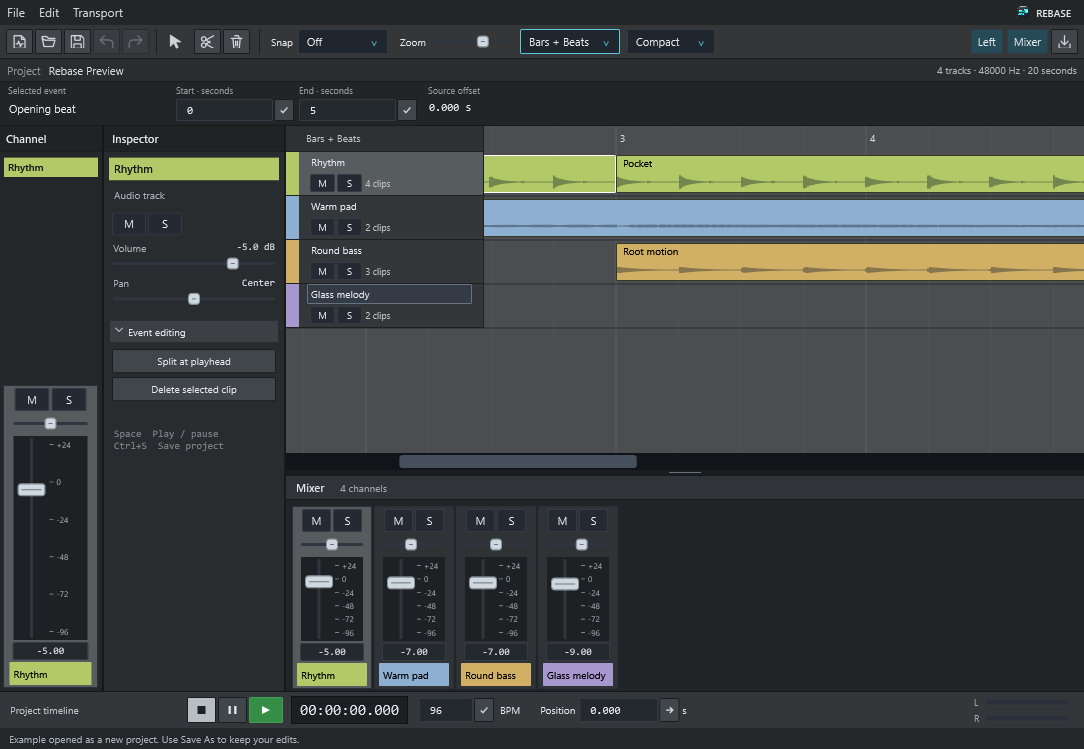
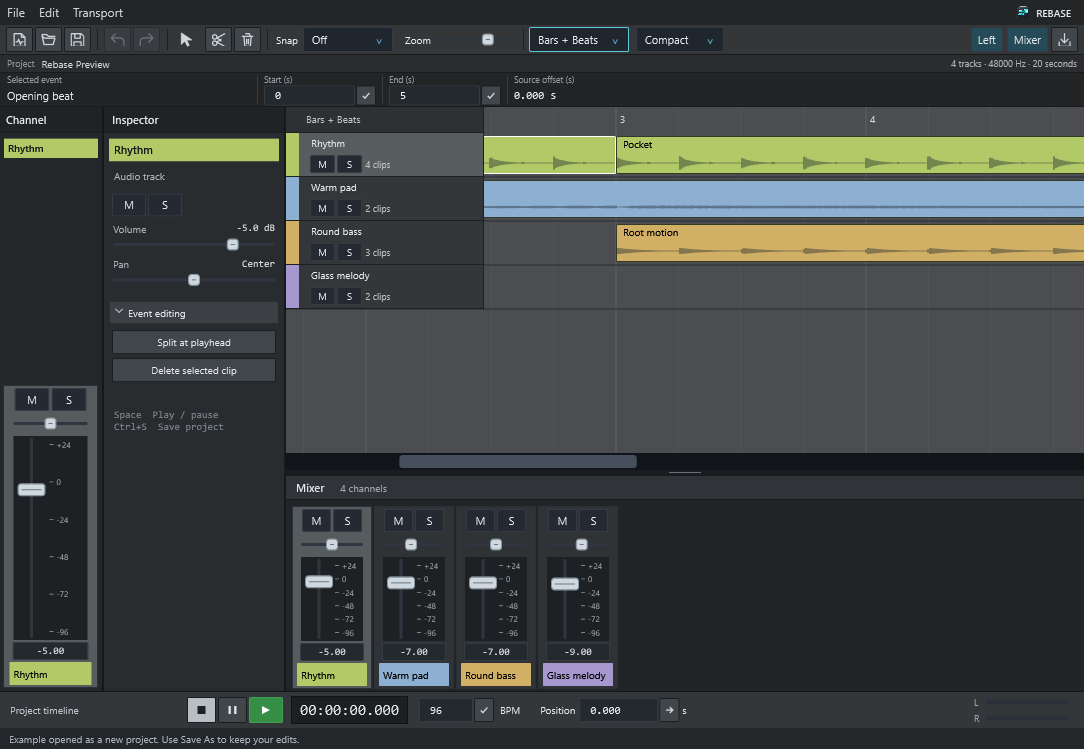
Publish compact project information preview and downloads [skip ci]

diff --git a/docs/development/windows-parity.md b/docs/development/windows-parity.md
@@ -1,6 +1,6 @@
 # Windows parity
 
-The behavior comparison baseline is the macOS **0.21.1** application, including its bundled example beat. The visual target is the [Cubase Pro 15.0.30 Windows interface](windows-ui-fidelity.md). The [Windows development preview](https://github.com/thatsmethen/rebase/releases/tag/v0.21.1-windows-preview.4) includes the native WPF package, compact/normal track rows, adjustable panels, shared waveforms, musical ruler, reviewed partial CPR import and bounded source-event journey. The captured selector/header defects have been corrected; exact reference fidelity remains open. The public repository, research export, and existing Mac downloads remain available.
+The behavior comparison baseline is the macOS **0.21.1** application, including its bundled example beat. The visual target is the [Cubase Pro 15.0.30 Windows interface](windows-ui-fidelity.md). The [Windows development preview](https://github.com/thatsmethen/rebase/releases/tag/v0.21.1-windows-preview.5) includes the native WPF package, compact/normal track rows, adjustable panels, shared waveforms, musical ruler, reviewed partial CPR import and bounded source-event journey. The captured selector/header defects have been corrected; exact reference fidelity remains open. The public repository, research export, and existing Mac downloads remain available.
 
 ## Shared implementation
 
@@ -21,7 +21,7 @@ The x64 lane explicitly qualifies the floating-point environment before enabling
 | Native DSP | Same accepted domains, exact independent controls, explicit environment rejection | Windows x64 Debug/Release passed 5,442 cases and 18,380 checks each; see the [retained run](../../research/publication/windows-portability/run-39915872920/observation.json) |
 | Project files | Load/save/reopen across OS; source checks, containment, junction/drive/UNC/ADS handling and atomic replacement | Shared store and bounded snapshot copying passed Windows Debug/Release tests; the actual host saved and reopened an edited example. File-dialog interaction remains unverified. |
 | Editing | Move/trim/split/delete, snap, undo/redo, tempo/signature and preserved-clock conversion | Shared commands passed Windows Debug/Release checks. The actual window exercised selection, move, undo, redo, Save As and reopen. Pointer/keyboard journeys and remaining commands require broader UI coverage. |
-| Timeline/mixer | Four-track example, waveforms, automation, gain/pan, keyboard access and dirty-project prompts | Native checks cover the editable inspector, mixer controls, shared bars/beats ruler, 11 real waveforms, four visible rows and fixed headers during scrolling. Seven actual client-area captures were visually reviewed, including the CPR review and its minimum-size error state. Physical gestures, automation editing and full reference layout/control fidelity remain open. |
+| Timeline/mixer | Four-track example, waveforms, automation, gain/pan, keyboard access and dirty-project prompts | Native checks cover the editable inspector, mixer controls, shared bars/beats ruler, 11 real waveforms, four visible rows and fixed headers during scrolling. Nine actual client-area captures were visually reviewed, including the CPR review and its minimum-size error state. Physical gestures, automation editing and full reference layout/control fidelity remain open. |
 | Native playback | Play/pause/seek/stop, meters, completion, cancellation and supported device formats through WASAPI | Windows Debug/Release DLL compilation and 89 lifecycle controls each passed; hosted endpoints unavailable; real playback verification pending |
 | CPR workflows | Review, attachment, source inspection, every current audition mode and overlap-track playback | Reviewed partial CPR import and historical-report retrieval passed through the shared helper and native window. Shared strict stereo PCM24 source attachment/export and event-local audition are implemented; attachment, undo/redo, export and provenance checks passed with authored input. Device audition is unverified. Native conversion, placed-clock and overlap-track modes remain unintegrated. |
 | Interchange | Audio formats, DAWproject import/export and 64-bit ambisonic export | Windows adapters pending |
@@ -29,9 +29,9 @@ The x64 lane explicitly qualifies the floating-point environment before enabling
 
 Hosted Windows builds can establish compilation, deterministic processing, and the specific WPF window operations exercised by automation. They do not establish physical input, file-dialog behavior, or output through a real audio endpoint. Those checks require an interactive Windows environment.
 
-The [latest retained component run](../../research/publication/windows-portability/run-40021483798/observation.json) executed 90 Windows Swift tests in each configuration, with one opt-in generator skipped. Portable macOS executed 92 per configuration; the public Mac application suite executed 262 tests with 117 explicit private-fixture/generator skips. All four Swift lanes executed the 14 new CPR review controls plus the existing six Windows/seven macOS importer cases. Each production helper passed 91 checks and all 16 CPR import gates. Ordinary example PCM, source-event output, source/report hashes, waveform peaks and ruler results matched across platforms and configurations.
+The [latest retained component run](../../research/publication/windows-portability/run-40033023784/observation.json) executed 90 Windows Swift tests in each configuration, with one opt-in generator skipped. Portable macOS executed 92 per configuration; the public Mac application suite executed 262 tests with 117 explicit private-fixture/generator skips. All four Swift lanes executed the 14 new CPR review controls plus the existing six Windows/seven macOS importer cases. Each production helper passed 91 checks and all 16 CPR import gates. Ordinary example PCM, source-event output, source/report hashes, waveform peaks and ruler results matched across platforms and configurations.
 
-The [preview.4 application run](../../research/publication/windows-portability/application-run-40021483751/observation.json), from `6289343`, passed 91 packaged-helper checks, 155 host controls and 80 actual-window checks. Its seven native client images passed root and independent review for the demonstrated states. CPR review preserves the complete footer at 814 × 611 and at the 634 × 441 minimum-size error state. The [independent downloaded-package audit](../../research/publication/windows-portability/application-run-40021483751/candidate-review.json) verified the archive digest, file manifest, committed example and runtime closure. All eight measured workspace states preserve the session and selection, with no unnecessary vertical scrolling. Compact/normal rows, pane toggles, bounded splitter and fader geometry pass their native checks. These results establish the exercised scope; full parity and reference fidelity remain open.
+The [preview.5 application run](../../research/publication/windows-portability/application-run-40033023717/observation.json), from `5dd3beb`, passed 91 packaged-helper checks, 155 host controls and 87 actual-window checks. Its nine native client images passed root and independent review for the demonstrated states. CPR review preserves the complete footer at 814 × 611 and at the 634 × 441 minimum-size error state. The [independent downloaded-package audit](../../research/publication/windows-portability/application-run-40033023717/candidate-review.json) verified the archive digest, file manifest, committed example and runtime closure. All eight measured workspace states preserve the session and selection, with no unnecessary vertical scrolling. Compact/normal rows, pane toggles, bounded splitter and fader geometry pass their native checks. The top-row stack is 107 DIP, returning 19 DIP to the arrangement. Long-name fields, source-only unavailable timing and full-width row dividers pass their scoped checks. The requested 1400-DIP window remained at 1100 DIP on the hosted display, so wider-desktop geometry remains unverified. These results establish the exercised scope; full parity and reference fidelity remain open.
 
 The earlier [functional candidate](../../research/publication/windows-portability/application-run-39962134728/observation.json) passed 65 native checks but its CPR image clipped the action buttons and omitted the window background. It was rejected and not released. The first [capture-correction run](../../research/publication/windows-portability/application-run-39964618757/observation.json) then stopped after 38 native checks at an exact-alpha assertion; no PNG or ZIP was produced. Both original observations remain unchanged. The successful follow-up writes PNG diagnostics before checking complete client coverage with the observed alpha 254–255 range, alongside footer geometry and viewport bounds.
 

diff --git a/docs/screenshots/README.md b/docs/screenshots/README.md
@@ -10,30 +10,34 @@ Actual window captures from the arm64 release build, version 0.21.0 (21), on 202
 
[1 lines of base64/hex data omitted]
 
-## Windows 0.21.1 development preview 4
+## Windows 0.21.1 development preview 5
 
-Actual WPF client-area renders from the opened application at commit `62893430f8394a5c1b8274d3a6273dddd4fa6653`, captured by [native run 40021483751](https://github.com/thatsmethen/rebase/actions/runs/40021483751). The five main-window images are 1084 × 749 pixels. CPR review is 814 × 611; its minimum-size error state is 634 × 441. All captures use 96 DPI and exclude the operating-system frame.
+Actual WPF client-area renders from the opened application at commit `5dd3beb2538024a85143af984105fe6d2daea943`, captured by [native run 40033023717](https://github.com/thatsmethen/rebase/actions/runs/40033023717). The seven main-window images are 1084 × 749 pixels. CPR review is 814 × 611; its minimum-size error state is 634 × 441. All captures use 96 DPI and exclude the operating-system frame.
 
 - `windows-arrangement.png`: the four-track, eleven-clip example in Compact density with real waveforms, Channel/Inspector, musical ruler, mixer and transport.
 - `windows-workspace-normal.png`: the same example in Normal density; all four rows fit.
 - `windows-workspace-expanded.png`: the arrangement after hiding the left panels and lower mixer.
 - `windows-source.png`: the canonical authored single-source fixture after PCM24 attachment and checked export.
 - `windows-scrolled.png`: the example at 100 pixels per second, horizontally scrolled 368 pixels. Track headers and ruler corner remain fixed.
+- `windows-long-names.png`: long authored project/event names retain their allocated fields.
+- `windows-resize-request.png`: the same scenario after a wider-window request constrained by the hosted display.
 - `windows-cpr-review.png`: authored CPR review with preserved-source identity and complete navigation/import controls.
 - `windows-cpr-review-error.png`: minimum-size review with the observed error message and all four footer controls visible.
 
-These are byte-exact copies of the [retained CI images](../../research/publication/windows-portability/application-run-40021483751/observation.json) and preview.4 assets. No editing or recompression was applied. Both CPR PNGs have minimum alpha 254 and no pixels below 254; their independently recounted distributions match the retained diagnostics.
+These are byte-exact copies of the [retained CI images](../../research/publication/windows-portability/application-run-40033023717/observation.json) and preview.5 assets. No editing or recompression was applied. Both CPR PNGs have minimum alpha 254 and no pixels below 254; their independently recounted distributions match the retained diagnostics.
 
-Root and independent review accepted the scoped workspace and demonstrated actions. The interface remains substantially incomplete relative to the Windows reference. Expanded row-divider strokes still end at their previous canvas width, and top-row density remains follow-up work. A mistaken root reading of the scrolled corner label was [explicitly corrected](../../research/publication/windows-portability/application-run-40021483751/root-visual-review-correction.json); the original image and review remain preserved.
+Root and independent review accepted the scoped workspace and demonstrated actions. The interface remains substantially incomplete relative to the Windows reference. The compact top-row stack and expanded row dividers are covered by this slice. Both long-name captures are 1084 × 749: the requested wider window was constrained by the hosted display, so wider-desktop geometry remains unverified. A mistaken root reading of the scrolled corner label was [explicitly corrected](../../research/publication/windows-portability/application-run-40021483751/root-visual-review-correction.json); the original image and review remain preserved.
 
 Source/CPR inputs are authored controls excluded from the download. These images do not verify physical input, native dialogs, the operating-system frame or device audio. The native review contains one page; pagination is checked separately. Its observed error fits without scrolling. Prior preview captures remain in their immutable research records and release assets.
 
 | File | Pixels | SHA-256 |
 | --- | --- | --- |
[15 lines of base64/hex data omitted]

diff --git a/Application/Windows/RebaseWindows/README.md b/Application/Windows/RebaseWindows/README.md
@@ -53,9 +53,9 @@ DWM dark-caption opt-in follows [Microsoft's documented API](https://learn.micro
 
 For the optional authored source-event smoke, append `--smoke-source-project ABSOLUTE_PACKAGE --smoke-source-media ABSOLUTE_WAV`. Both paths are required together and stay outside the shipped app. The scenario opens a scratch copy, selects the source-event UI item, attaches media through the actual button handler with a supplied path, checks undo/redo, and exports through the actual button handler. File dialogs remain untested. It records provenance/output hashes and `native-source-visual.png`, then returns to the bundled beat, waits for all real waveform geometry, checks that all four rows fit, and captures `native-app-visual.png`. The same authored input also drives reviewed CPR import: cancel, changed-source rejection, dirty protection, destination cancellation, publication and historical-report retrieval. It writes `native-cpr-review-visual.png`, `native-cpr-review-minimum-error-visual.png` and matching alpha diagnostics, while checking footer geometry and available review space. The extended scenario allows 180 seconds; the outer process timeout is 240 seconds. It never starts audio.
 
-[Windows preview 4](https://github.com/thatsmethen/rebase/releases/tag/v0.21.1-windows-preview.4), built from `6289343`, passed [80 actual-window checks, 155 host controls and 91 helper checks](../../../research/publication/windows-portability/application-run-40021483751/observation.json). The shared Release gate executed 90 tests with one explicit opt-in skip and no failures. All 16 CPR process gates passed, preserving the authored source/report and exact audio locks. The [independent archive audit](../../../research/publication/windows-portability/application-run-40021483751/candidate-review.json) checks the downloaded bytes, file manifest, committed example and runtime closure.
+[Windows preview 5](https://github.com/thatsmethen/rebase/releases/tag/v0.21.1-windows-preview.5), built from `5dd3beb`, passed [87 actual-window checks, 155 host controls and 91 helper checks](../../../research/publication/windows-portability/application-run-40033023717/observation.json). The shared Release gate executed 90 tests with one explicit opt-in skip and no failures. All 16 CPR process gates passed, preserving the authored source/report and exact audio locks. The [independent archive audit](../../../research/publication/windows-portability/application-run-40033023717/candidate-review.json) checks the downloaded bytes, file manifest, committed example and runtime closure.
 
-Seven reviewed native captures show the arrangement, source attachment/export, anchored track headers, CPR review and its minimum-size error state. Both review captures retain the complete footer and observed message. The original rejected capture and failed strict-alpha run remain in the research record. Native pointer drag, physical keyboard interaction, file dialogs and hardware audition need further desktop/device verification. Full feature and reference fidelity remain ongoing work.
+Nine reviewed native captures show the arrangement, source attachment/export, anchored track headers, CPR review and its minimum-size error state. Both review captures retain the complete footer and observed message. The original rejected capture and failed strict-alpha run remain in the research record. Native pointer drag, physical keyboard interaction, file dialogs and hardware audition need further desktop/device verification. Full feature and reference fidelity remain ongoing work.
 
 
 The workspace defaults to 44-DIP Compact rows and offers 68-DIP Normal rows. Left/Mixer toggles return their space to the arrangement; the lower-zone divider supports bounded pointer and keyboard resizing. Faders adapt to the mixer height, Inspector sections collapse, and ordinary clip editing stays disabled for retained source events. Native checks record actual content viewports, extent/scroll relationships, state hashes, hit targets, splitter limits and source-selection transitions. The separate selection-control scratch project preserves its original source/report sidecars and is never packaged. Physical gestures remain unverified.

diff --git a/docs/install/windows.md b/docs/install/windows.md
@@ -4,7 +4,7 @@ This experimental x64 preview is intended for Windows 11. It includes its requir
 
 ## Open the app
 
-1. Download `Rebase-0.21.1-windows-preview.4-x64.zip` from the [Windows preview release](https://github.com/thatsmethen/rebase/releases/tag/v0.21.1-windows-preview.4).
+1. Download `Rebase-0.21.1-windows-preview.5-x64.zip` from the [Windows preview release](https://github.com/thatsmethen/rebase/releases/tag/v0.21.1-windows-preview.5).
 2. Use **Extract All** to unpack the complete archive.
 3. Open **Rebase.exe** inside the extracted `Rebase` folder. Keep the DLLs, notices and `Examples` folder beside the executable.
 4. Choose **File → Open example**. The four-track beat opens as a separate editable copy.
@@ -35,7 +35,7 @@ Source-event audition uses the saved source rate and a separate event-local posi
 
 ## What has been checked
 
-Preview.4 comes from commit `6289343` and [native Windows run 40021483751](../../research/publication/windows-portability/application-run-40021483751/observation.json) on a Windows Server 2025 GitHub runner. It passed 80 actual-window checks, 155 host controls and 91 packaged-helper checks. The shared Release gate executed 90 tests with one explicit opt-in skip and no failures. The [downloaded archive audit](../../research/publication/windows-portability/application-run-40021483751/candidate-review.json) verified its file manifest, runtime dependencies and unchanged example audio.
+Preview.5 comes from commit `5dd3beb` and [native Windows run 40033023717](../../research/publication/windows-portability/application-run-40033023717/observation.json) on a Windows Server 2025 GitHub runner. It passed 87 actual-window checks, 155 host controls and 91 packaged-helper checks. The shared Release gate executed 90 tests with one explicit opt-in skip and no failures. The [downloaded archive audit](../../research/publication/windows-portability/application-run-40033023717/candidate-review.json) verified its file manifest, runtime dependencies and unchanged example audio.
 
 [Seven screenshots](../screenshots/README.md) show the actual application's client area, including CPR review at normal and minimum window sizes. They exclude the operating-system frame.
 

diff --git a/docs/development/windows-ui-fidelity.md b/docs/development/windows-ui-fidelity.md
@@ -77,7 +77,7 @@ The [next correction](../../research/publication/windows-portability/workspace-l
 
 The [downloaded archive audit](../../research/publication/windows-portability/application-run-40021483751/candidate-review.json) verifies the exact package, manifest, bundled example and runtime closure. Seven native client images received root and independent review. [Preview 4](https://github.com/thatsmethen/rebase/releases/tag/v0.21.1-windows-preview.4) publishes that exact source and its images. This accepts the compact/normal rows, pane sizing and source-control slice, not full reference fidelity.
 
-The next slice tightens the toolbar, project-status and event-information rows with existing working commands, clarifies unavailable timing for retained source events, and extends row-divider strokes when the canvas widens. The scrolled ruler-corner label is present; the earlier root reading was [corrected without altering the source image](../../research/publication/windows-portability/application-run-40021483751/root-visual-review-correction.json). Functional reference gaps and interactive Windows/device verification remain open.
+[Preview 5](https://github.com/thatsmethen/rebase/releases/tag/v0.21.1-windows-preview.5), exact source `5dd3beb`, completes the next measured slice: menu/toolbar/status/event rows total 107 DIP, unavailable source-event timing is explicit, long names retain tooltips, and row dividers extend across the visible canvas. [Native run 40033023717](../../research/publication/windows-portability/application-run-40033023717/observation.json) passed 87 window checks; the independent downloaded-package audit and root review cover all nine images. Its wider-window request remained constrained to 1100 DIP, leaving wider-desktop behavior unverified. The scrolled ruler-corner label is present; the earlier root reading was [corrected without altering the source image](../../research/publication/windows-portability/application-run-40021483751/root-visual-review-correction.json). Functional reference gaps and interactive Windows/device verification remain open.
 
 ## Top-row and event-information candidate
 

diff --git a/README.md b/README.md
@@ -14,9 +14,9 @@ Windows development follows the [Windows reference interface](docs/development/w
 
 ## Release
 
-**[Download Rebase for Windows](https://github.com/thatsmethen/rebase/releases/download/v0.21.1-windows-preview.4/Rebase-0.21.1-windows-preview.4-x64.zip)**
+**[Download Rebase for Windows](https://github.com/thatsmethen/rebase/releases/download/v0.21.1-windows-preview.5/Rebase-0.21.1-windows-preview.5-x64.zip)**
 
-The **Windows x64 development preview** includes its runtimes and the example beat. Preview.4 adds compact/normal track rows, hideable left and mixer panels, a resizable mixer and collapsible Inspector sections. Reviewed CPR import preserves the original source and interpretation report. Extract the entire archive, open `Rebase.exe`, and choose **File → Open example**. See the [release page](https://github.com/thatsmethen/rebase/releases/tag/v0.21.1-windows-preview.4) and [Windows installation guide](docs/install/windows.md). This unsigned preview targets Windows 11; native automated checks ran on Windows Server 2025. Audio-device output and physical input still need interactive verification.
+The **Windows x64 development preview** includes its runtimes and the example beat. Preview.5 adds compact project/event information rows, full-name tooltips and corrected arrangement dividers. It retains compact/normal track rows, adjustable panels and the mixer. Reviewed CPR import preserves the original source and interpretation report. Extract the entire archive, open `Rebase.exe`, and choose **File → Open example**. See the [release page](https://github.com/thatsmethen/rebase/releases/tag/v0.21.1-windows-preview.5) and [Windows installation guide](docs/install/windows.md). This unsigned preview targets Windows 11; native automated checks ran on Windows Server 2025. Audio-device output and physical input still need interactive verification.
 
 **[Download Rebase for Mac](https://github.com/thatsmethen/rebase/releases/download/v0.21.1/Rebase-0.21.1-macos-arm64.zip)**
 
